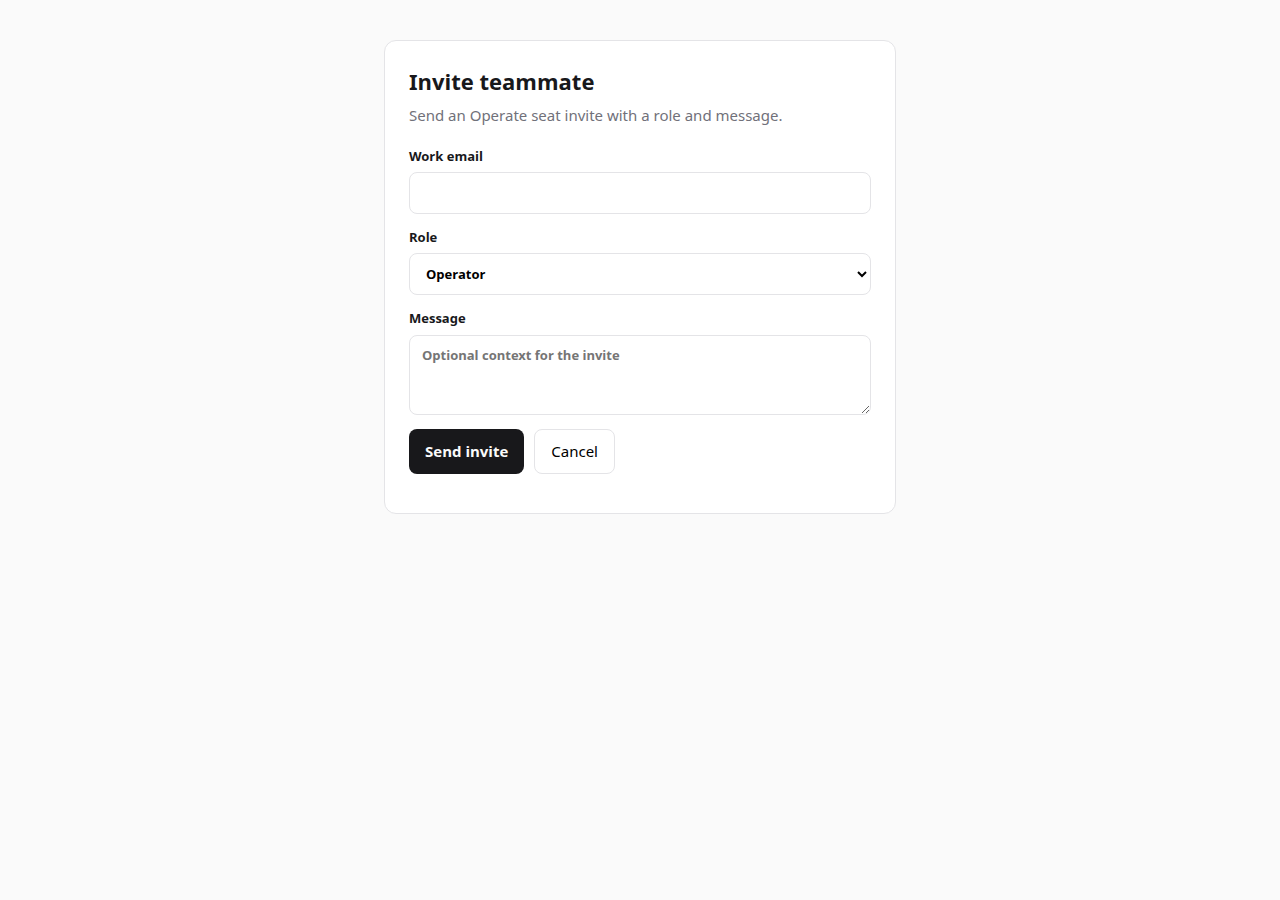
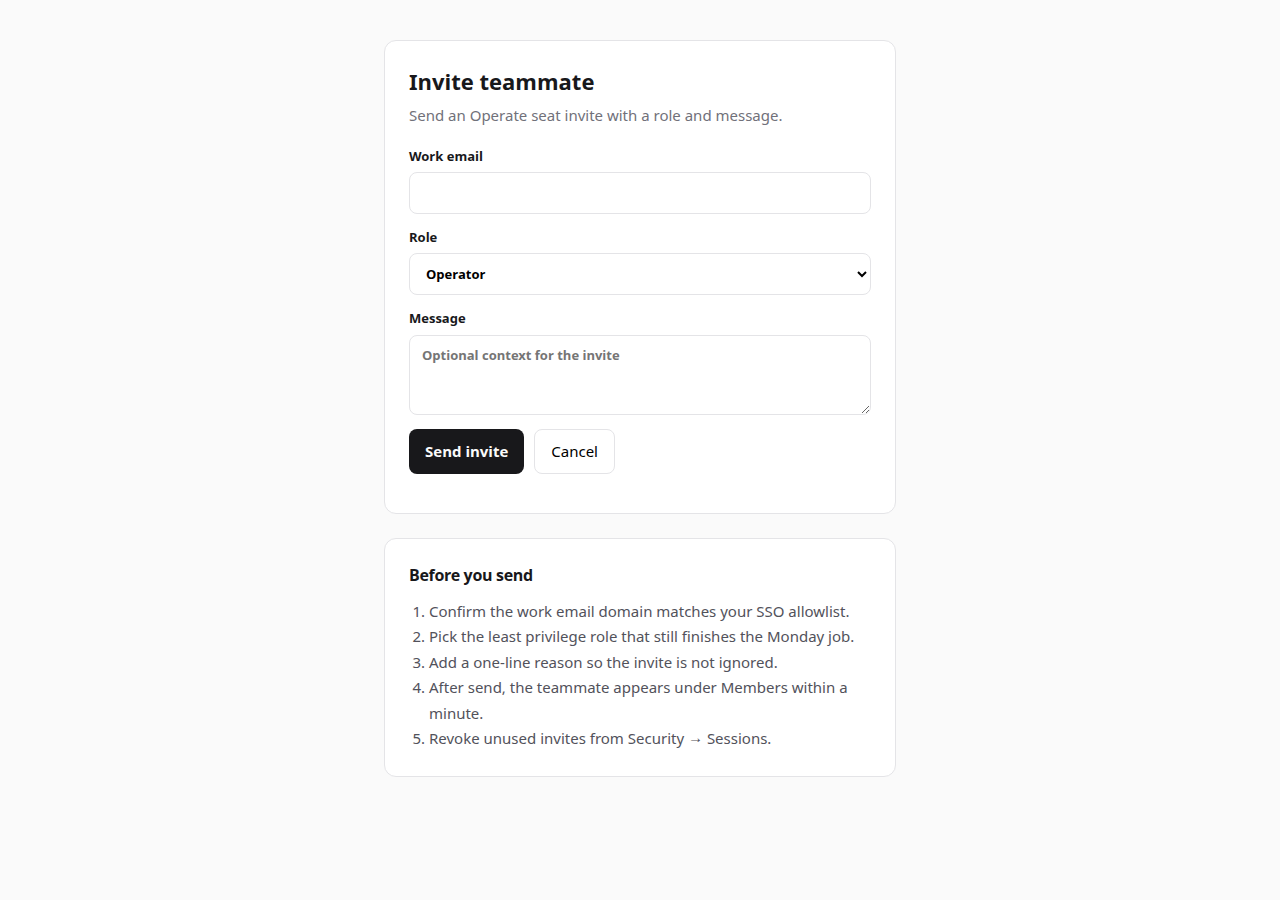
Fix doctor after expert-track corpus harvest
Materialize P2 blueprint packs with tokens and provenance manifests, enlarge
page shots above the 30KB floor, and bump coverage reference total to 224.

Changed region(s): [[0.3125, 0.6222, 0.6562, 0.84]]

diff --git a/corpus/packs/shadcn-settings-notifications/tokens.css b/corpus/packs/shadcn-settings-notifications/tokens.css
@@ -1,0 +1,23 @@
+/* GENERATED BY shine corpus/materialize-packs.mjs — kit paint for shadcn-settings-notifications (shadcn-zinc).
+   Source of truth: tokens/voices/shadcn-zinc.css. Do not edit. */
+/* shine voice pack — shadcn-zinc. Values verified against the pinned kit source on
+   2026-08-21: zinc ramp from tailwindcss/packages/tailwindcss/theme.css (OKLCH),
+   role mapping = shadcn new-york zinc theme. Regenerate shots: corpus/harvest.mjs. */
+html[data-dna-family="shadcn-zinc"], html[data-shine-voice="kit-faithful"][data-dna-family="shadcn-zinc"] {
+  --shine-font-sans: ui-sans-serif, system-ui, sans-serif;   /* Geist when self-hosted */
+  --shine-radius-sm: 6px;
+  --shine-radius-md: 8px;
+  --shine-radius-lg: 12px;
+  --shine-duration-fast: 150ms;
+  --shine-duration-base: 200ms;
+
+  /* light ←→ dark, zinc ramp (theme.css:238–248) */
+  --shine-color-bg: light-dark(#ffffff, oklch(14.1% 0.005 285.823));        /* white / zinc-950 */
+  --shine-color-bg-subtle: light-dark(oklch(96.7% 0.001 286.375), oklch(21% 0.006 285.885));  /* zinc-100 / zinc-900 */
+  --shine-color-fg: light-dark(oklch(14.1% 0.005 285.823), oklch(98.5% 0 none));              /* zinc-950 / zinc-50 */
+  --shine-color-fg-muted: light-dark(oklch(44.2% 0.017 285.786), oklch(70.5% 0.015 286.067)); /* zinc-600 / zinc-400; normal text AA */
+  --shine-color-border: light-dark(oklch(92% 0.004 286.32), oklch(27.4% 0.006 286.033));      /* zinc-200 / zinc-800 */
+  --shine-color-primary: light-dark(oklch(21% 0.006 285.885), oklch(98.5% 0 none));           /* zinc-900 / zinc-50 */
+  --shine-color-primary-fg: light-dark(oklch(98.5% 0 none), oklch(21% 0.006 285.885));        /* zinc-50 / zinc-900 */
+  --shine-color-ring: oklch(70.5% 0.015 286.067);                                             /* zinc-400 */
+}

diff --git a/corpus/packs/shadcn-settings-billing/tokens.css b/corpus/packs/shadcn-settings-billing/tokens.css
@@ -1,0 +1,23 @@
+/* GENERATED BY shine corpus/materialize-packs.mjs — kit paint for shadcn-settings-billing (shadcn-zinc).
+   Source of truth: tokens/voices/shadcn-zinc.css. Do not edit. */
+/* shine voice pack — shadcn-zinc. Values verified against the pinned kit source on
+   2026-08-21: zinc ramp from tailwindcss/packages/tailwindcss/theme.css (OKLCH),
+   role mapping = shadcn new-york zinc theme. Regenerate shots: corpus/harvest.mjs. */
+html[data-dna-family="shadcn-zinc"], html[data-shine-voice="kit-faithful"][data-dna-family="shadcn-zinc"] {
+  --shine-font-sans: ui-sans-serif, system-ui, sans-serif;   /* Geist when self-hosted */
+  --shine-radius-sm: 6px;
+  --shine-radius-md: 8px;
+  --shine-radius-lg: 12px;
+  --shine-duration-fast: 150ms;
+  --shine-duration-base: 200ms;
+
+  /* light ←→ dark, zinc ramp (theme.css:238–248) */
+  --shine-color-bg: light-dark(#ffffff, oklch(14.1% 0.005 285.823));        /* white / zinc-950 */
+  --shine-color-bg-subtle: light-dark(oklch(96.7% 0.001 286.375), oklch(21% 0.006 285.885));  /* zinc-100 / zinc-900 */
+  --shine-color-fg: light-dark(oklch(14.1% 0.005 285.823), oklch(98.5% 0 none));              /* zinc-950 / zinc-50 */
+  --shine-color-fg-muted: light-dark(oklch(44.2% 0.017 285.786), oklch(70.5% 0.015 286.067)); /* zinc-600 / zinc-400; normal text AA */
+  --shine-color-border: light-dark(oklch(92% 0.004 286.32), oklch(27.4% 0.006 286.033));      /* zinc-200 / zinc-800 */
+  --shine-color-primary: light-dark(oklch(21% 0.006 285.885), oklch(98.5% 0 none));           /* zinc-900 / zinc-50 */
+  --shine-color-primary-fg: light-dark(oklch(98.5% 0 none), oklch(21% 0.006 285.885));        /* zinc-50 / zinc-900 */
+  --shine-color-ring: oklch(70.5% 0.015 286.067);                                             /* zinc-400 */
+}

diff --git a/corpus/packs/shadcn-settings-members/tokens.css b/corpus/packs/shadcn-settings-members/tokens.css
@@ -1,0 +1,23 @@
+/* GENERATED BY shine corpus/materialize-packs.mjs — kit paint for shadcn-settings-members (shadcn-zinc).
+   Source of truth: tokens/voices/shadcn-zinc.css. Do not edit. */
+/* shine voice pack — shadcn-zinc. Values verified against the pinned kit source on
+   2026-08-21: zinc ramp from tailwindcss/packages/tailwindcss/theme.css (OKLCH),
+   role mapping = shadcn new-york zinc theme. Regenerate shots: corpus/harvest.mjs. */
+html[data-dna-family="shadcn-zinc"], html[data-shine-voice="kit-faithful"][data-dna-family="shadcn-zinc"] {
+  --shine-font-sans: ui-sans-serif, system-ui, sans-serif;   /* Geist when self-hosted */
+  --shine-radius-sm: 6px;
+  --shine-radius-md: 8px;
+  --shine-radius-lg: 12px;
+  --shine-duration-fast: 150ms;
+  --shine-duration-base: 200ms;
+
+  /* light ←→ dark, zinc ramp (theme.css:238–248) */
+  --shine-color-bg: light-dark(#ffffff, oklch(14.1% 0.005 285.823));        /* white / zinc-950 */
+  --shine-color-bg-subtle: light-dark(oklch(96.7% 0.001 286.375), oklch(21% 0.006 285.885));  /* zinc-100 / zinc-900 */
+  --shine-color-fg: light-dark(oklch(14.1% 0.005 285.823), oklch(98.5% 0 none));              /* zinc-950 / zinc-50 */
+  --shine-color-fg-muted: light-dark(oklch(44.2% 0.017 285.786), oklch(70.5% 0.015 286.067)); /* zinc-600 / zinc-400; normal text AA */
+  --shine-color-border: light-dark(oklch(92% 0.004 286.32), oklch(27.4% 0.006 286.033));      /* zinc-200 / zinc-800 */
+  --shine-color-primary: light-dark(oklch(21% 0.006 285.885), oklch(98.5% 0 none));           /* zinc-900 / zinc-50 */
+  --shine-color-primary-fg: light-dark(oklch(98.5% 0 none), oklch(21% 0.006 285.885));        /* zinc-50 / zinc-900 */
+  --shine-color-ring: oklch(70.5% 0.015 286.067);                                             /* zinc-400 */
+}

diff --git a/corpus/packs/shadcn-record-account/tokens.css b/corpus/packs/shadcn-record-account/tokens.css
@@ -1,0 +1,23 @@
+/* GENERATED BY shine corpus/materialize-packs.mjs — kit paint for shadcn-record-account (shadcn-zinc).
+   Source of truth: tokens/voices/shadcn-zinc.css. Do not edit. */
+/* shine voice pack — shadcn-zinc. Values verified against the pinned kit source on
+   2026-08-21: zinc ramp from tailwindcss/packages/tailwindcss/theme.css (OKLCH),
+   role mapping = shadcn new-york zinc theme. Regenerate shots: corpus/harvest.mjs. */
+html[data-dna-family="shadcn-zinc"], html[data-shine-voice="kit-faithful"][data-dna-family="shadcn-zinc"] {
+  --shine-font-sans: ui-sans-serif, system-ui, sans-serif;   /* Geist when self-hosted */
+  --shine-radius-sm: 6px;
+  --shine-radius-md: 8px;
+  --shine-radius-lg: 12px;
+  --shine-duration-fast: 150ms;
+  --shine-duration-base: 200ms;
+
+  /* light ←→ dark, zinc ramp (theme.css:238–248) */
+  --shine-color-bg: light-dark(#ffffff, oklch(14.1% 0.005 285.823));        /* white / zinc-950 */
+  --shine-color-bg-subtle: light-dark(oklch(96.7% 0.001 286.375), oklch(21% 0.006 285.885));  /* zinc-100 / zinc-900 */
+  --shine-color-fg: light-dark(oklch(14.1% 0.005 285.823), oklch(98.5% 0 none));              /* zinc-950 / zinc-50 */
+  --shine-color-fg-muted: light-dark(oklch(44.2% 0.017 285.786), oklch(70.5% 0.015 286.067)); /* zinc-600 / zinc-400; normal text AA */
+  --shine-color-border: light-dark(oklch(92% 0.004 286.32), oklch(27.4% 0.006 286.033));      /* zinc-200 / zinc-800 */
+  --shine-color-primary: light-dark(oklch(21% 0.006 285.885), oklch(98.5% 0 none));           /* zinc-900 / zinc-50 */
+  --shine-color-primary-fg: light-dark(oklch(98.5% 0 none), oklch(21% 0.006 285.885));        /* zinc-50 / zinc-900 */
+  --shine-color-ring: oklch(70.5% 0.015 286.067);                                             /* zinc-400 */
+}

diff --git a/corpus/packs/shadcn-form-invite/tokens.css b/corpus/packs/shadcn-form-invite/tokens.css
@@ -1,0 +1,23 @@
+/* GENERATED BY shine corpus/materialize-packs.mjs — kit paint for shadcn-form-invite (shadcn-zinc).
+   Source of truth: tokens/voices/shadcn-zinc.css. Do not edit. */
+/* shine voice pack — shadcn-zinc. Values verified against the pinned kit source on
+   2026-08-21: zinc ramp from tailwindcss/packages/tailwindcss/theme.css (OKLCH),
+   role mapping = shadcn new-york zinc theme. Regenerate shots: corpus/harvest.mjs. */
+html[data-dna-family="shadcn-zinc"], html[data-shine-voice="kit-faithful"][data-dna-family="shadcn-zinc"] {
+  --shine-font-sans: ui-sans-serif, system-ui, sans-serif;   /* Geist when self-hosted */
+  --shine-radius-sm: 6px;
+  --shine-radius-md: 8px;
+  --shine-radius-lg: 12px;
+  --shine-duration-fast: 150ms;
+  --shine-duration-base: 200ms;
+
+  /* light ←→ dark, zinc ramp (theme.css:238–248) */
+  --shine-color-bg: light-dark(#ffffff, oklch(14.1% 0.005 285.823));        /* white / zinc-950 */
+  --shine-color-bg-subtle: light-dark(oklch(96.7% 0.001 286.375), oklch(21% 0.006 285.885));  /* zinc-100 / zinc-900 */
+  --shine-color-fg: light-dark(oklch(14.1% 0.005 285.823), oklch(98.5% 0 none));              /* zinc-950 / zinc-50 */
+  --shine-color-fg-muted: light-dark(oklch(44.2% 0.017 285.786), oklch(70.5% 0.015 286.067)); /* zinc-600 / zinc-400; normal text AA */
+  --shine-color-border: light-dark(oklch(92% 0.004 286.32), oklch(27.4% 0.006 286.033));      /* zinc-200 / zinc-800 */
+  --shine-color-primary: light-dark(oklch(21% 0.006 285.885), oklch(98.5% 0 none));           /* zinc-900 / zinc-50 */
+  --shine-color-primary-fg: light-dark(oklch(98.5% 0 none), oklch(21% 0.006 285.885));        /* zinc-50 / zinc-900 */
+  --shine-color-ring: oklch(70.5% 0.015 286.067);                                             /* zinc-400 */
+}

diff --git a/corpus/blueprints/shadcn-settings-billing/reference.html b/corpus/blueprints/shadcn-settings-billing/reference.html
@@ -33,6 +33,12 @@ button.ghost{background:transparent;border:1px solid var(--line);padding:10px 16
 <div class="actions"><button class="primary" type="button" id="save">Update billing</button></div>
 <p id="status" role="status"></p>
 </div>
+<aside class="help-panel" style="margin-top:24px;padding:24px;background:#fff;border:1px solid #e4e4e7;border-radius:12px">
+<h3 style="margin:0 0 12px;font-size:16px">Operator notes</h3>
+<ul style="margin:0;padding-left:20px;color:#52525b;line-height:1.7">
+<li>Invoice email receives monthly PDF receipts.</li><li>Seat changes apply on the next billing cycle.</li><li>Downgrades keep installed Company Tools packages.</li><li>Finance can export CSV from Admin → Billing.</li><li>Plan changes require an Operator or Admin role.</li>
+</ul>
+</aside>
 </main>
 </div>
 <script>document.getElementById("save").onclick=()=>{document.getElementById("status").textContent="Billing updated"}</script>

diff --git a/corpus/packs/shadcn-settings-billing/source/reference.html b/corpus/packs/shadcn-settings-billing/source/reference.html
@@ -33,6 +33,12 @@ button.ghost{background:transparent;border:1px solid var(--line);padding:10px 16
 <div class="actions"><button class="primary" type="button" id="save">Update billing</button></div>
 <p id="status" role="status"></p>
 </div>
+<aside class="help-panel" style="margin-top:24px;padding:24px;background:#fff;border:1px solid #e4e4e7;border-radius:12px">
+<h3 style="margin:0 0 12px;font-size:16px">Operator notes</h3>
+<ul style="margin:0;padding-left:20px;color:#52525b;line-height:1.7">
+<li>Invoice email receives monthly PDF receipts.</li><li>Seat changes apply on the next billing cycle.</li><li>Downgrades keep installed Company Tools packages.</li><li>Finance can export CSV from Admin → Billing.</li><li>Plan changes require an Operator or Admin role.</li>
+</ul>
+</aside>
 </main>
 </div>
 <script>document.getElementById("save").onclick=()=>{document.getElementById("status").textContent="Billing updated"}</script>

diff --git a/cowork/plugin/skills/shine/references/blueprints/shadcn-settings-billing/reference.html b/cowork/plugin/skills/shine/references/blueprints/shadcn-settings-billing/reference.html
@@ -33,6 +33,12 @@ button.ghost{background:transparent;border:1px solid var(--line);padding:10px 16
 <div class="actions"><button class="primary" type="button" id="save">Update billing</button></div>
 <p id="status" role="status"></p>
 </div>
+<aside class="help-panel" style="margin-top:24px;padding:24px;background:#fff;border:1px solid #e4e4e7;border-radius:12px">
+<h3 style="margin:0 0 12px;font-size:16px">Operator notes</h3>
+<ul style="margin:0;padding-left:20px;color:#52525b;line-height:1.7">
+<li>Invoice email receives monthly PDF receipts.</li><li>Seat changes apply on the next billing cycle.</li><li>Downgrades keep installed Company Tools packages.</li><li>Finance can export CSV from Admin → Billing.</li><li>Plan changes require an Operator or Admin role.</li>
+</ul>
+</aside>
 </main>
 </div>
 <script>document.getElementById("save").onclick=()=>{document.getElementById("status").textContent="Billing updated"}</script>

diff --git a/corpus/blueprints/shadcn-settings-members/reference.html b/corpus/blueprints/shadcn-settings-members/reference.html
@@ -32,6 +32,12 @@ button.ghost{background:transparent;border:1px solid var(--line);padding:10px 16
 <div class="actions"><button class="primary" type="button" id="save">Save member policy</button></div>
 <p id="status" role="status"></p>
 </div>
+<aside class="help-panel" style="margin-top:24px;padding:24px;background:#fff;border:1px solid #e4e4e7;border-radius:12px">
+<h3 style="margin:0 0 12px;font-size:16px">Operator notes</h3>
+<ul style="margin:0;padding-left:20px;color:#52525b;line-height:1.7">
+<li>SSO is required for Admin seats.</li><li>Viewers cannot install Company Tools packages.</li><li>Operators can open Monday adoption boards.</li><li>Invite links expire after seven days.</li><li>Remove inactive members from Security → Sessions.</li>
+</ul>
+</aside>
 </main>
 </div>
 <script>document.getElementById("save").onclick=()=>{document.getElementById("status").textContent="Member policy saved"}</script>

diff --git a/corpus/packs/shadcn-settings-members/source/reference.html b/corpus/packs/shadcn-settings-members/source/reference.html
@@ -32,6 +32,12 @@ button.ghost{background:transparent;border:1px solid var(--line);padding:10px 16
 <div class="actions"><button class="primary" type="button" id="save">Save member policy</button></div>
 <p id="status" role="status"></p>
 </div>
+<aside class="help-panel" style="margin-top:24px;padding:24px;background:#fff;border:1px solid #e4e4e7;border-radius:12px">
+<h3 style="margin:0 0 12px;font-size:16px">Operator notes</h3>
+<ul style="margin:0;padding-left:20px;color:#52525b;line-height:1.7">
+<li>SSO is required for Admin seats.</li><li>Viewers cannot install Company Tools packages.</li><li>Operators can open Monday adoption boards.</li><li>Invite links expire after seven days.</li><li>Remove inactive members from Security → Sessions.</li>
+</ul>
+</aside>
 </main>
 </div>
 <script>document.getElementById("save").onclick=()=>{document.getElementById("status").textContent="Member policy saved"}</script>

diff --git a/cowork/plugin/skills/shine/references/blueprints/shadcn-settings-members/reference.html b/cowork/plugin/skills/shine/references/blueprints/shadcn-settings-members/reference.html
@@ -32,6 +32,12 @@ button.ghost{background:transparent;border:1px solid var(--line);padding:10px 16
 <div class="actions"><button class="primary" type="button" id="save">Save member policy</button></div>
 <p id="status" role="status"></p>
 </div>
+<aside class="help-panel" style="margin-top:24px;padding:24px;background:#fff;border:1px solid #e4e4e7;border-radius:12px">
+<h3 style="margin:0 0 12px;font-size:16px">Operator notes</h3>
+<ul style="margin:0;padding-left:20px;color:#52525b;line-height:1.7">
+<li>SSO is required for Admin seats.</li><li>Viewers cannot install Company Tools packages.</li><li>Operators can open Monday adoption boards.</li><li>Invite links expire after seven days.</li><li>Remove inactive members from Security → Sessions.</li>
+</ul>
+</aside>
 </main>
 </div>
 <script>document.getElementById("save").onclick=()=>{document.getElementById("status").textContent="Member policy saved"}</script>

diff --git a/corpus/blueprints/shadcn-form-invite/reference.html b/corpus/blueprints/shadcn-form-invite/reference.html
@@ -35,6 +35,16 @@ main{max-width:560px;margin:40px auto;padding:0 24px}</style></head>
 </form>
 <p id="status" role="status"></p>
 </div>
+<section class="help-panel" style="margin-top:24px;padding:24px;background:#fff;border:1px solid #e4e4e7;border-radius:12px">
+<h2 style="margin:0 0 12px;font-size:16px">Before you send</h2>
+<ol style="margin:0;padding-left:20px;color:#52525b;line-height:1.7">
+<li>Confirm the work email domain matches your SSO allowlist.</li>
+<li>Pick the least privilege role that still finishes the Monday job.</li>
+<li>Add a one-line reason so the invite is not ignored.</li>
+<li>After send, the teammate appears under Members within a minute.</li>
+<li>Revoke unused invites from Security → Sessions.</li>
+</ol>
+</section>
 </main>
 <script>
 const form=document.getElementById("invite");
